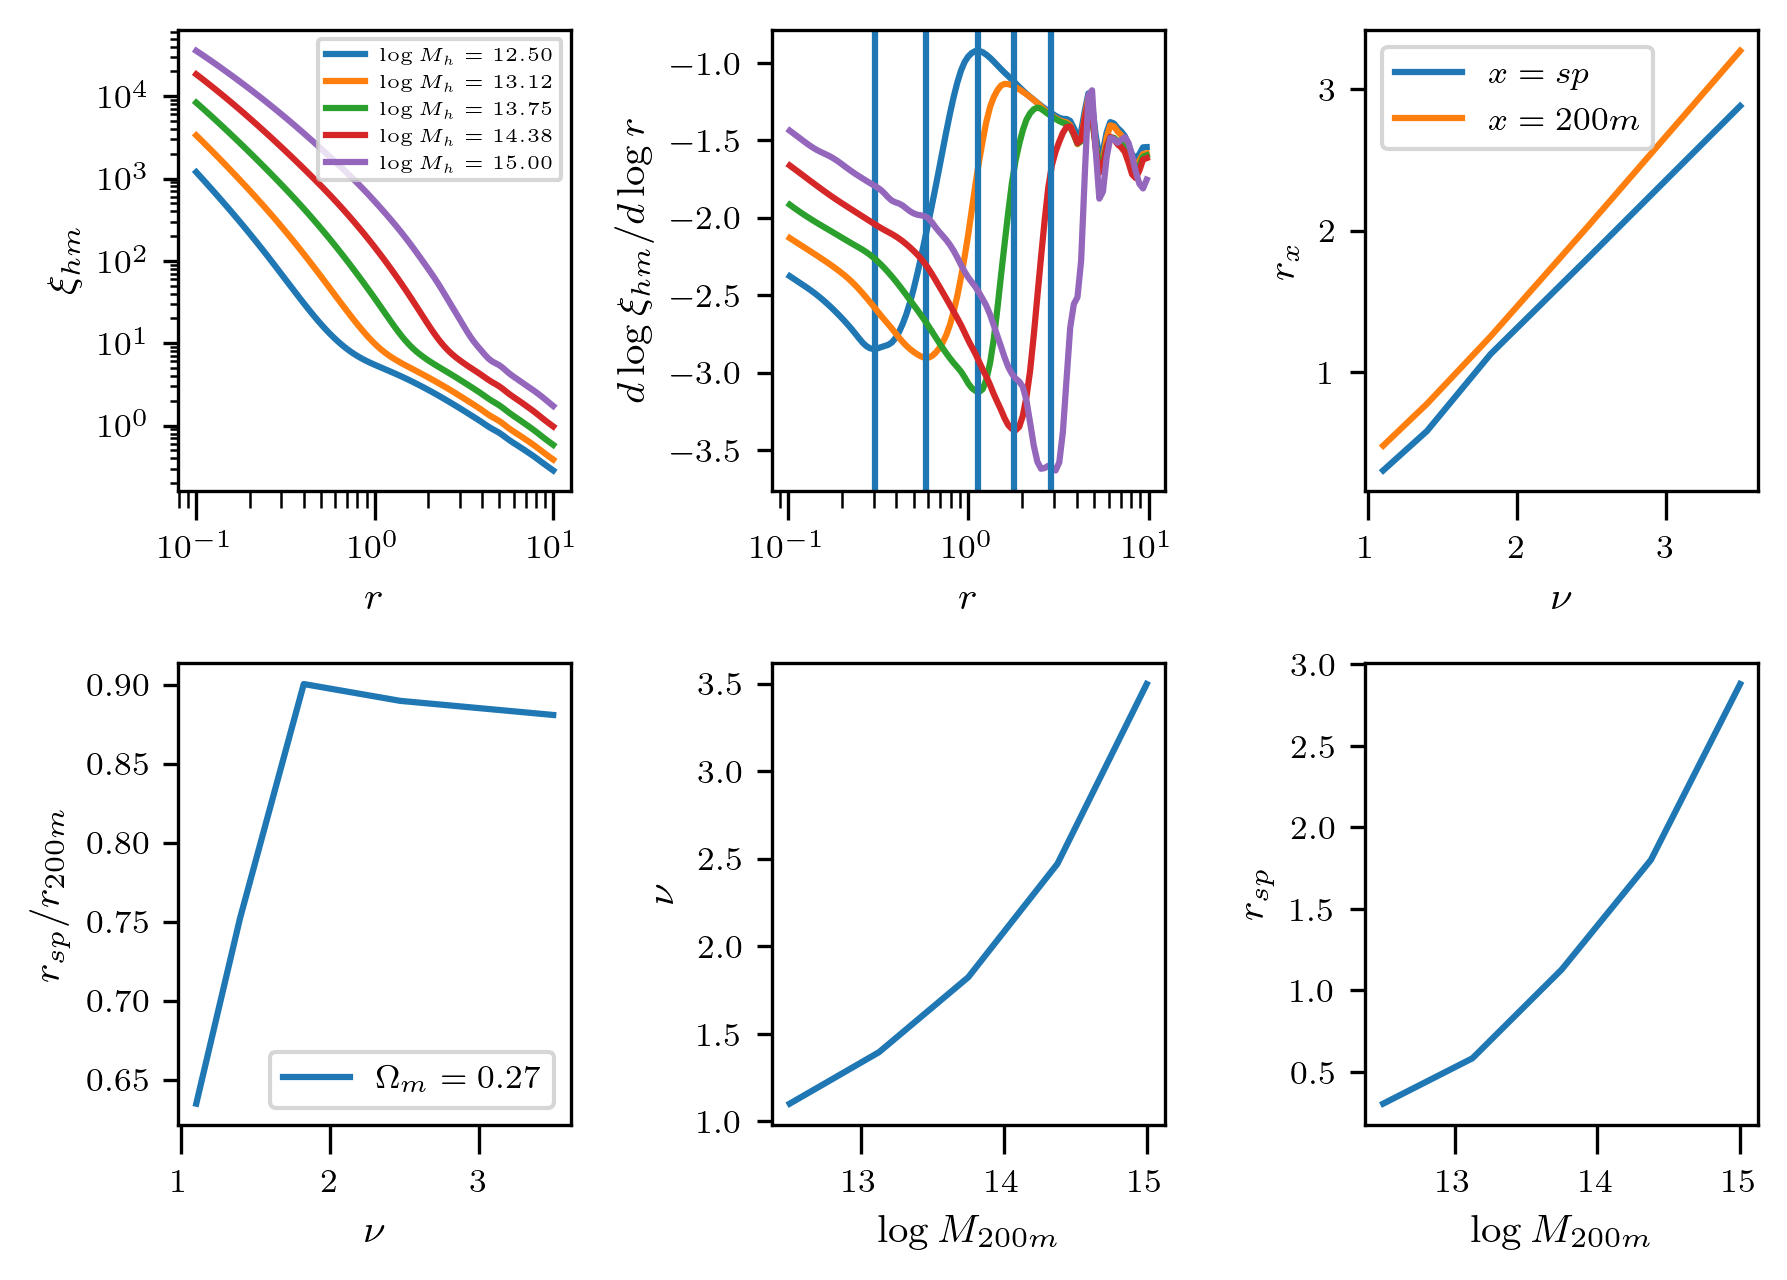
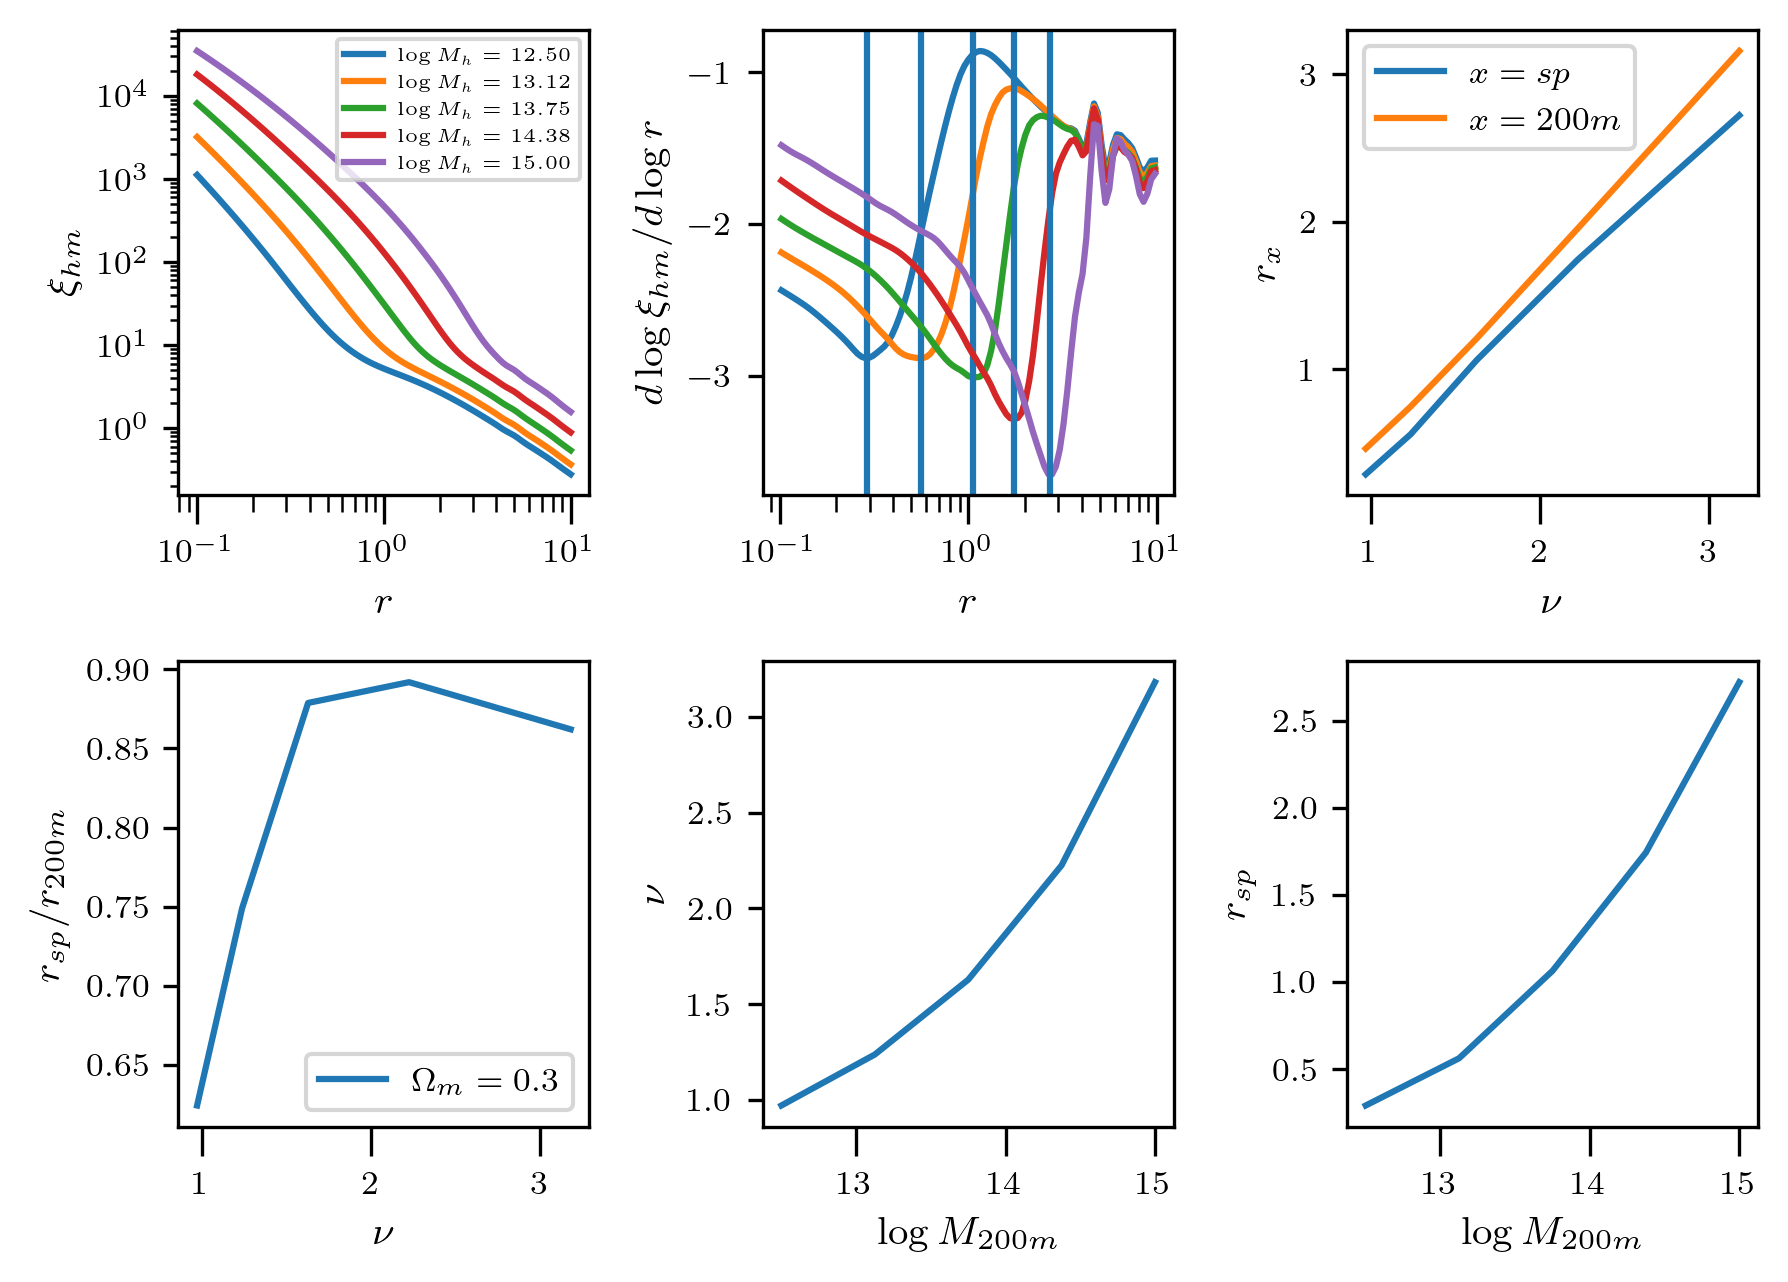
something is buggy

diff --git a/model_fast.py b/model_fast.py
@@ -1,0 +1,269 @@
+# Given projected radial range will predict the 2pcf_2D and other functions
+# Formalism is followed from ryoma's 2020 paper - https://arxiv.org/abs/2001.01160
+
+import numpy as np
+from scipy.integrate import quad,simps,cumtrapz,fixed_quad
+from scipy.interpolate import interp1d, InterpolatedUnivariateSpline
+from scipy.misc import derivative
+from scipy.optimize import fmin,minimize
+import sys
+
+class constants():
+    """Useful constants"""
+    G = 4.301e-9 #km^2 Mpc M_sun^-1 s^-2 gravitational constant
+    H0 = 100. #h kms-1 Mpc-1 hubble constant at present
+    omg_m = 0.315 #omega_matter
+    not_so_tiny = 1e-24
+
+
+class splash(constants):
+    """Useful functions for predicting Rsp for both 2d and 3D case"""
+    def __init__(self, Log_Rho_s, Log_Alpha, Log_R_s, Log_Rho_0, S_e, Log_R_t, Log_Beta, Log_Gamma, F_cen, R_off, R_out=1.5, R_max=40, splrmin = 0.001, splrbin=500):
+
+        #parameters for density in inner regions
+        self.rho_s = 10**Log_Rho_s
+        self.alpha = 10**Log_Alpha
+        self.r_s = 10**Log_R_s
+
+        #parameters for density in outer region
+        self.r_out = R_out
+        self.rho_0 = 10**Log_Rho_0
+        self.s_e = S_e
+
+        #parameters for transition
+        self.r_t = 10**Log_R_t
+        self.beta = 10**Log_Beta
+        self.gamma = 10**Log_Gamma
+
+        #off-centering parameters
+        self.fcen = F_cen
+        self.roff = R_off
+
+        #sigma computation variables
+        self.rho_crt = 3*self.H0**2/(8*np.pi*self.G) # rho critical
+        self.rho_m   = self.rho_crt*self.omg_m       # mean matter density in units h-1 Msun/(h-3Mpc^3)
+
+        #R_max for project 3D-2pcf to 2D-2pcf
+        self.R_max = R_max
+
+        #putting spline on
+        self.spl_rmin = splrmin
+        self.spl_rbin = splrbin
+
+        self.init_spl = False
+        self.init_spl_cen = False
+        self.init_spl_2d_diff = False
+        self.init_spl_3d_diff = False
+
+        # Add these precomputed values
+        self.angular_weights = np.linspace(0, 2*np.pi, 100)
+        self.integration_r = np.linspace(0, 10*self.roff, 400)
+        self.p_off_values = self.p_off(self.integration_r)
+
+
+    def rho_in(self,r):
+        num = (-2.0/self.alpha)*((r*1.0/self.r_s)**self.alpha - 1)
+        val = self.rho_s * np.exp(num)
+        return val
+
+    def rho_out(self,r):
+        val = self.rho_0*(r*1.0/self.r_out)**(-self.s_e)
+        return val
+
+    def f_trans(self,r):
+        val = (1 + (r*1.0/self.r_t)**self.beta)**(-self.gamma*1.0/self.beta)
+        return val
+
+    def log_xi_3d(self,log_r):
+        r = 10**log_r
+        val = self.rho_in(r)*self.f_trans(r) + self.rho_out(r)
+        val = np.log10(val)
+        return val
+
+    def p_off(self,R):
+        val = R*1.0/self.roff**2 * np.exp(-R**2/(2.0*(self.roff)**2))
+        return val
+
+    def log_xi_2d_off(self, log_R):
+        """Optimized 2D correlation function for off-centered profile"""
+        if not self.init_spl_cen:
+            self.log_xi_2d_cen(log_R)
+
+        # Convert to 1D array and get dimensions
+        R = np.atleast_1d(10**log_R)
+        r_values = np.linspace(0, 10*self.roff, 561)
+        theta_values = np.linspace(0, 2*np.pi, 101)
+
+        # Create reshaped views for broadcasting
+        R_3d = R[:, np.newaxis, np.newaxis]          # Shape (N, 1, 1)
+        r_3d = r_values[np.newaxis, :, np.newaxis]   # Shape (1, M, 1)
+        theta_3d = theta_values[np.newaxis, np.newaxis, :]  # Shape (1, 1, K)
+
+        # Calculate R_eff using vectorized operations
+        R_eff = np.sqrt(R_3d**2 + r_3d**2 + 2*R_3d*r_3d*np.cos(theta_3d))
+
+        # Vectorized spline evaluation
+        log_R_eff = np.log10(R_eff)
+        valid_mask = (log_R_eff >= self.log_xi_2d_dict['logr_min']) & \
+                     (log_R_eff <= self.log_xi_2d_dict['logr_max'])
+
+        xi_2d_values = np.full_like(R_eff, 10**self.log_xi_2d_dict['log_ximax'])
+        xi_2d_values[valid_mask] = 10**self.spl_log_xi_2d_cen(log_R_eff[valid_mask])
+
+        # Average over theta and integrate over r
+        theta_avg = simps(xi_2d_values, theta_values,axis=2)/(2*np.pi)
+        p_off = self.p_off(r_values)
+        integral = simps(p_off * theta_avg, r_values, axis=1)
+        return np.log10(integral.squeeze())
+
+
+
+    def log_xi_2d_cen(self,log_R):
+        if self.fcen == 1.0:
+            rrad = np.logspace(log_R.min(), log_R.max(), self.spl_rbin)
+            _val = 0.0*rrad
+        else:
+            rrad = np.logspace(np.log10(self.spl_rmin), np.log10(10**log_R.max() + 10*self.roff), self.spl_rbin)
+            _val = 0.0*rrad
+        for ii,rr in enumerate(rrad):
+            _val[ii] = quad(lambda x: 10**(self.log_xi_3d(np.log10(np.sqrt(rr**2+x**2)))), 0, self.R_max)[0]
+        val = _val*1.0/self.R_max
+
+        self.spl_log_xi_2d_cen = InterpolatedUnivariateSpline(np.log10(rrad), np.log10(val),  k=4)
+        self.spl_log_xi_2d_cen._data = {  # Cache evaluation points
+        'x': np.log10(rrad),
+        'y': np.log10(val)}
+        self.spl_log_xi_2d_cen_diff = self.spl_log_xi_2d_cen.derivative()
+
+        self.log_xi_2d_dict = {}
+        self.log_xi_2d_dict['logr_min'] = np.log10(np.min(rrad))
+        self.log_xi_2d_dict['logr_max'] = np.log10(np.max(rrad))
+        self.log_xi_2d_dict['log_ximax'] = np.log10(np.max(val))
+        self.init_spl_cen = True
+        val = self.spl_log_xi_2d_cen(log_R)
+        return val
+
+    def log_xi_2d(self,log_R):
+        if self.fcen==1.0:
+            val = self.log_xi_2d_cen(log_R)
+            self.spl_log_xi_2d      = self.spl_log_xi_2d_cen
+            self.spl_log_xi_2d_diff = self.spl_log_xi_2d_cen_diff
+        else:
+            val = self.fcen * 10**self.log_xi_2d_cen(log_R) + (1 - self.fcen) * 10**self.log_xi_2d_off(log_R)
+
+            self.spl_log_xi_2d      = InterpolatedUnivariateSpline(log_R, np.log10(val),  k=4)
+            self.spl_log_xi_2d_diff = self.spl_log_xi_2d.derivative()
+            self.init_spl = True
+            val = np.log10(val)
+        return val
+
+    def log_sigma(self, log_R):
+        "current sigma implementation is for the scalar log_R using shin et al 2021 units"
+        rhoeff = 2*self.R_max *self.rho_m/1e12 +  2*self.R_max*10**self.log_xi_2d(log_R)
+        if 10**log_R<self.spl_rmin:
+            val = 2*self.R_max *self.rho_m/1e12 +  2*self.R_max*10**self.log_xi_2d(np.log10(self.spl_rmin))
+            return np.log10(val)
+        return np.log10(rhoeff)
+
+
+
+    def diff_xi_2d(self,log_R):
+        if not self.init_spl:
+            dirt = self.log_xi_2d(log_R)
+        val = self.spl_log_xi_2d_diff(log_R)
+        return val
+
+    def diff_xi_3d(self,log_R):
+        R = 10**log_R
+        xi_3d = 10**self.log_xi_3d(log_R)
+        d_rhoin_dr = self.rho_in(R)*(-2)*((R/self.r_s)**(self.alpha -1))/self.r_s
+        d_ftran_dr = -(self.gamma/self.beta)*((1+(R/self.r_t)**self.beta)**(-self.gamma/self.beta -1))*(self.beta*(R/self.r_t)**(self.beta -1))/self.r_t
+        d_rhoout_dr = -(self.rho_0 * self.s_e) * ((R/self.r_out)**(-self.s_e -1))/self.r_out
+        val = self.rho_in(R) * d_ftran_dr + self.f_trans(R)*d_rhoin_dr + d_rhoout_dr
+        val = val * R/xi_3d
+        return val
+
+    def rsp_2d(self,log_R):
+        if not self.init_spl:
+            dirt = self.log_xi_2d(log_R)
+        val = self.spl_log_xi_2d_diff(log_R)
+        idx = np.argmin(val)
+        gval = log_R[idx]
+        bnds = ((log_R.min(), log_R.max()),)
+        val  = minimize(self.spl_log_xi_2d_diff, gval, bounds=bnds)
+        return np.append(10**val.x,val.fun)
+
+    def rsp_3d(self,log_R):
+        val = self.diff_xi_3d(log_R)
+        idx = np.argmin(val)
+        gval = log_R[idx]
+        bnds = ((log_R.min(), log_R.max()),)
+        val  = minimize(self.diff_xi_3d, gval, bounds=bnds)
+        return np.append(10**val.x,val.fun)
+
+if __name__ == "__main__":
+    import matplotlib.pyplot as plt
+    plt.figure(figsize=[10.0,10.0])
+    plt.subplot(2,2,1)
+
+#log_rho_s, log_alpha, log_r_s, log_rho_0, s_e, log_r_t, log_beta, log_gamma
+    #2.05628643, -0.74687378, -0.32809567, -3.32641305,  5.71911196, 0.13970109,  0.79832924,  0.70256978
+
+    #parameters for density in inner regions
+    log_rho_s = 1.47611335 #1.10#np.log10(27.08)#np.log10(27.08)#1.97
+    log_alpha = 0.68742786 #-0.95#np.log10(0.16) #-0.68#np.log10(0.16)#-0.68
+    log_r_s = 0.67286521 #-0.32#np.log10(0.32) #-0.58#np.log10(0.32)#-0.58
+    #parameters for density in outer region
+    log_rho_0 = 0.31423027 #0.349#np.log10(0.43) #-0.48#np.log10(0.43)#-0.48
+    s_e = 2.07541219 #1.601 #1.3#1.61#1.3
+
+    #parameters for transition
+    log_r_t   = 0.04709024 #-0.082#np.log10(1.31) #0.16#np.log10(1.31)#0.16
+    log_beta  = 0.89337944 #0.762#np.log10(3.71) #0.77#np.log10(3.71)#0.77
+    log_gamma = 0.13532044 #0.66#np.log10(6.42) #0.64#np.log10(6.42)#0.64
+
+    import sys
+    #off-centering parameters
+    f_cen = 1.0
+    r_off = 0.33717233
+
+    ss = splash(Log_Rho_s = log_rho_s, Log_Alpha = log_alpha, Log_R_s = log_r_s, Log_Rho_0 = log_rho_0, S_e = s_e, Log_R_t = log_r_t, Log_Beta = log_beta, Log_Gamma = log_gamma, F_cen = f_cen, R_off = r_off, splrmin=0.001, splrbin=100)
+
+    #rr = 0.001018207976387967
+    #rtest = np.linspace(0,50,10)
+    #vtest = 0.0*rtest
+    #for i in range(len(rtest)):
+    #    vtest[i] =  10**(ss.log_xi_3d(np.log10(np.sqrt(rr**2+rtest[i]**2))))
+    #print vtest
+
+    #print quad(lambda x: 10**(ss.log_xi_3d(np.log10(np.sqrt(rr**2+x**2)))), 0, ss.R_max)[0]
+
+    #print ss.log_xi_2d(np.log10(rr))
+
+    rad = np.logspace(np.log10(0.05),np.log10(20), 9)
+
+    logr = np.log10(rad)
+    print((ss.log_xi_2d_cen(logr)))
+    print((ss.log_xi_2d_off(logr)))
+    print((ss.log_xi_2d(logr)))
+    print((ss.diff_xi_2d(logr)))
+    print((ss.diff_xi_3d(logr)))
+    #plt.plot(10**logr, ss.diff_xi_2d(logr))
+    #plt.xscale('log')
+    #plt.savefig('test.png', dpi=300)
+    print((rad.min(), rad.max()))
+    #print ss.log_xi_2d(logr)
+    #plt.plot(10**logr, 10**ss.log_xi_2d(logr))
+    ####plt.plot(10**logr, np.log10(ss.rho_in(10**logr)))
+    ####plt.plot(10**logr, np.log10(ss.f_trans(10**logr)))
+    ####plt.plot(10**logr, np.log10(ss.rho_out(10**logr)))
+    #plt.xscale('log')
+    #plt.yscale('log')
+    #plt.savefig('test.png', dpi=300)
+    ##print ss._int_xi_2d_off(10**logr[0])
+    print('Rsp3d = %s, val = %s'%(*ss.rsp_3d(logr),))
+    print('Rsp2d = %s, val = %s'%(*ss.rsp_2d(logr),))
+
+
+
+

diff --git a/get_rsp_r200m.py b/get_rsp_r200m.py
@@ -49,7 +49,7 @@ class splashsim():
 
     def logM200m2rsp(self, logmh, z):
         M = 10**logmh
-        rs = np.logspace(-1, 1, 50)
+        rs = np.logspace(-1, 1, 100)
         xihm = emu.get_xicross_mass(rs, M, z)
 
         log_rs = np.log10(rs)
@@ -76,7 +76,7 @@ def plot_rsp_vs_peak_height_varying_omega():
     # Fixed baryon density within supported range
     Ob0 = 0.022  # Already in omega_b form (Ωbh²)
     #omega_m_values = [0.28, 0.29, 0.3, 0.31]
-    omega_m_values = [0.27]
+    omega_m_values = [0.3]
     h = 0.675  # Use h=0.675 as a baseline
 
     redshift = 0.0  # Fixed redshift
